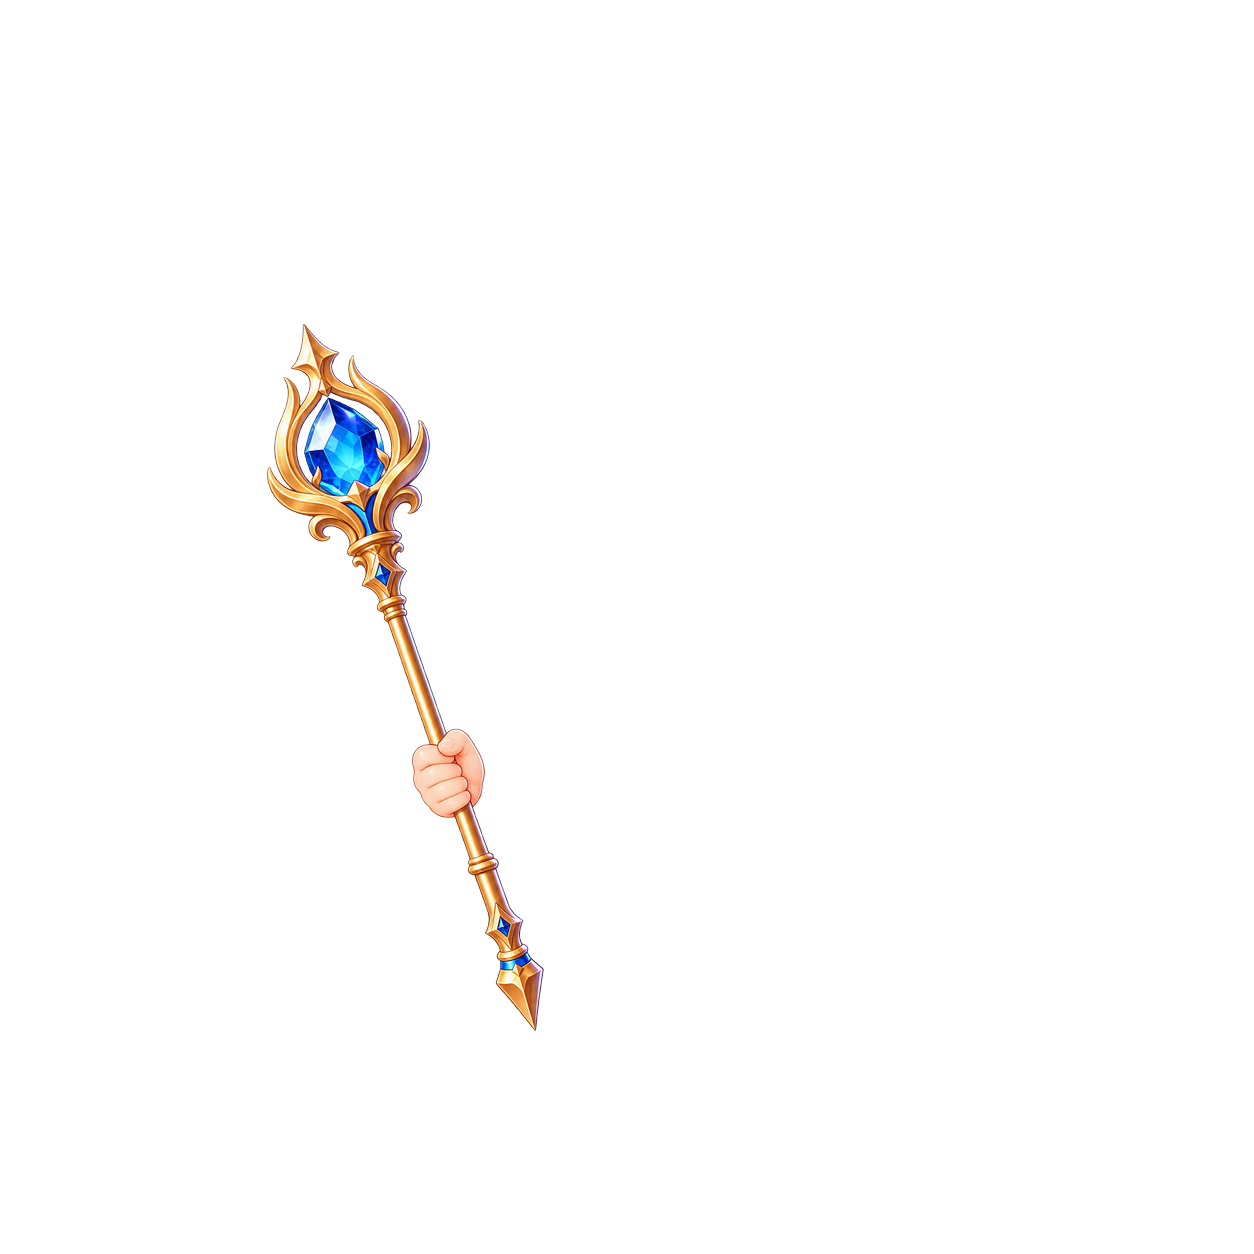
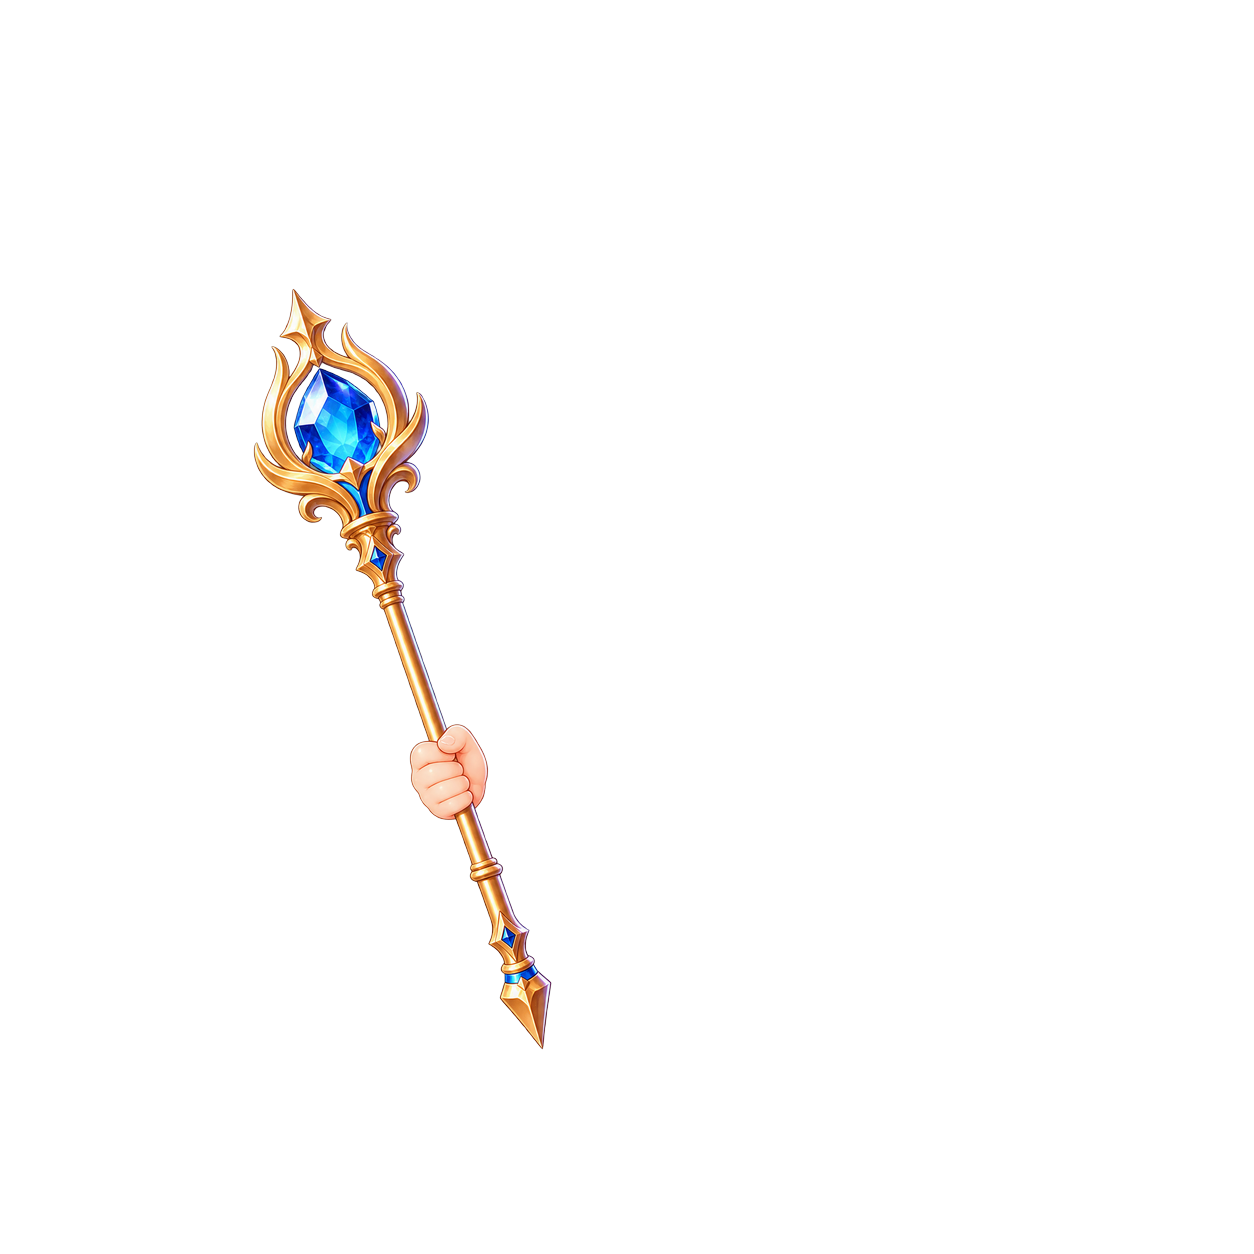
Cover the body's hand under the gold staff with blue gem
The round-2 gold staff (007) left a thin sliver of the body's own hand
showing beside its painted fist (104 px, 25 of them in the hand's core).
The owner approved the same fix as for the arcane staff. No placement at the
old scale covers it, so the same render is 7.5% larger (scale 0.43, offset
(58, 276)), which makes the staff 1.19x its old height. It is a separate
commit so it can be dropped on its own.

Claude-Session: https://claude.ai/code/session_01EdiQXRGokaCfhnNWsodC4R

Changed region(s): [[0.1866, 0.2177, 0.3421, 0.5598], [0.311, 0.5598, 0.4354, 0.8397]]

diff --git a/scripts/register_in_hand_objects.py b/scripts/register_in_hand_objects.py
@@ -36,9 +36,9 @@ its old size), so they are recorded directly rather than derived from a width.
 2026-09-27 (docs/qa/hand_objects_in_hand_2026-09-27.md): two of the owner's six
 candidates, the dark wand and the star spellbook, were registered from
 images/trait_candidates/hand_objects/in_hand_2026-09-27/. The round-1 arcane staff and
-violet orb were fitted again from the same renders, because their painted hands left an
-edge of the body's own hand showing. Their offsets were found with the fit tool's cover
-command rather than by centring the painted hand.
+violet orb, and the round-2 gold staff with blue gem, were fitted again from the same
+renders, because their painted hands left an edge of the body's own hand showing. Their
+offsets were found with the fit tool's cover command rather than by centring the painted hand.
 
 To register a new batch, add an entry to BATCHES (its source folder, decision date, QA
 note and item table) and run the script again. Batches are applied in order, so a later
@@ -103,6 +103,10 @@ ROUND1_REFIT_0927 = {
     "hand_object_001": ("001_arcane_staff_source.webp", 2, (491.4, 634.9), 88, 0.93, (-11, 184)),
     "hand_object_002": ("002_violet_crystal_orb_source.webp", 4, (407.0, 715.8), 363, 0.49, (217, 384)),
 }
+# 2026-09-27: the round-2 gold staff fitted again, 7.5% larger, so its painted fist covers the body's.
+ROUND2_REFIT_0927 = {
+    "hand_object_007": ("007_gold_staff_with_blue_gem.png", 2, (906, 1140), 177, 0.43, (58, 276)),
+}
 QA_0927 = {"decided_on": "2026-09-27", "qa_report": "docs/qa/hand_objects_in_hand_2026-09-27.md",
            "qa_composite": "docs/qa/hand_objects_in_hand_2026-09-27.png"}
 
@@ -114,6 +118,7 @@ BATCHES = [
      "items": ROUND2_ITEMS},
     {"folder": CANDIDATES_0927, **QA_0927, "items": ITEMS_0927},
     {"folder": SOURCES, **QA_0927, "items": ROUND1_REFIT_0927},
+    {"folder": ROUND2, **QA_0927, "items": ROUND2_REFIT_0927},
 ]
 
 

diff --git a/prompts/hand_objects_handover_2026-09-27.md b/prompts/hand_objects_handover_2026-09-27.md
@@ -22,7 +22,7 @@ Your job: generate or collect renders for the items still on their old art (004,
 
 ## Where things stand (2026-09-27)
 
-The candidates README in `incoming/hand_objects/with_hand_candidates_2026-09-26/` asks for wrist stubs to be trimmed. That step was dropped at the owner's request on 2026-09-27: a render with a painted wrist is generated again. Of the six candidates, only the lantern (006) has one. All six were fitted on 2026-09-27 (`docs/qa/hand_objects_in_hand_2026-09-27.md`): the dark wand and star spellbook were registered, and the registered arcane staff and violet orb were fitted again so their painted hands cover the body's.
+The candidates README in `incoming/hand_objects/with_hand_candidates_2026-09-26/` asks for wrist stubs to be trimmed. That step was dropped at the owner's request on 2026-09-27: a render with a painted wrist is generated again. Of the six candidates, only the lantern (006) has one. All six were fitted on 2026-09-27 (`docs/qa/hand_objects_in_hand_2026-09-27.md`): the dark wand and star spellbook were registered, and the registered arcane staff, violet orb and gold staff with blue gem were fitted again so their painted hands cover the body's.
 
 | Item | Pose | Now on main | Next step |
 |---|---|---|---|
@@ -32,7 +32,7 @@ The candidates README in `incoming/hand_objects/with_hand_candidates_2026-09-26/
 | 004 silver sword | 002 fist | old art | New render. The 2026-09-26 candidate drew the sword about a quarter longer than the old art, with the hand low on the grip, so the blade tip leaves the canvas once the fist covers the body's. Before that, round 3 had the right size but a sideways wrist. |
 | 005 star spellbook | 004 palm | painted-in-hand render, registered 2026-09-27 (an open book) | Done unless the owner asks again |
 | 006 gold lantern | 002 fist | painted-in-hand render, registered (round 2) | Its flat, outlined wrist cut is the kind of join the owner dislikes. The 2026-09-26 candidate still has a wrist stub, so regenerate it without a wrist rather than trimming it. |
-| 007 gold staff with blue gem | 002 fist | registered (round 2) | Done unless the owner asks again |
+| 007 gold staff with blue gem | 002 fist | round-2 render, fitted again on 2026-09-27 (7.5% larger) so the painted fist covers the body's | Done unless the owner asks again |
 | 008 blue crescent staff | 002 fist | registered (round 2) | Done unless the owner asks again |
 | 009 violet blade | 002 fist | old art | New render. Round 2 was marginal (chunky fist, blade a quarter short), and the owner chose to wait for a rerender. |
 | 010 horned skull scepter | 002 fist | old art | New render. Round 3 was the right size, but a corner of the body's own fist showed above the painted hand. The fist should be taller than it is wide, with the wrist running up toward the forearm. |
@@ -75,7 +75,7 @@ Keep every raw render unedited. Commit the sources you register under `images/tr
 
 ## Fitting
 
-`scripts/fit_in_hand_render.py` is the tool every registered in-hand item was fitted with, and it reproduces them pixel for pixel: the round-2 items (006, 007, 008 and 012) from their centre and scale, and the 2026-09-27 fits (001, 002, 003 and 005) with `--offset` (commands in `docs/qa/hand_objects_in_hand_2026-09-27.md`). The round-1 items (001, 002) first came from an older width-matching fit inside `scripts/register_in_hand_objects.py`. The tool never writes into the repository: `fit` writes to `/tmp/in_hand_fits/ITEM`, and `overview` and `zoom` to `/tmp/in_hand_fits/<source name>`, unless `--out` is given.
+`scripts/fit_in_hand_render.py` is the tool every registered in-hand item was fitted with, and it reproduces them pixel for pixel: the round-2 items (006, 008 and 012) from their centre and scale, and the 2026-09-27 fits (001, 002, 003, 005 and 007) with `--offset` (commands in `docs/qa/hand_objects_in_hand_2026-09-27.md`). The round-1 items (001, 002) first came from an older width-matching fit inside `scripts/register_in_hand_objects.py`. The tool never writes into the repository: `fit` writes to `/tmp/in_hand_fits/ITEM`, and `overview` and `zoom` to `/tmp/in_hand_fits/<source name>`, unless `--out` is given.
 
 1. Find the painted hand. Run `python scripts/fit_in_hand_render.py overview SOURCE`, then `zoom SOURCE x0 y0 x1 y1` on the hand.
 2. Measure it with `python scripts/fit_in_hand_render.py measure SOURCE POSE x0 y0 x1 y1` on a box round the painted hand. Keep the box tight: cream pages and parchment count as skin. The painted hand's skin centre and width are CX, CY and WIDTH, in source px. The same command prints the body hand's numbers: for pose 002, centre (447.2, 768.1) and width 69; for pose 004, centre (446.2, 738.5) and width 90.
@@ -133,5 +133,5 @@ python scripts/report_production_status.py --manifest assets/asset_manifest.json
 - Painted wrists: they pointed sideways, stuck out as stumps, or drew an outline across the forearm. Trimming them off afterwards was tried and dropped at the owner's request.
 - A closed fist for palm-up items (011): the body's pose is an open palm.
 - Rim light on the hand: it shows as a glowing outline against the body.
-- Centring the painted hand and stopping there. Round 1 left the body's knuckles showing beside the arcane staff, and the body's fingertips under the orb, until both were fitted again on 2026-09-27. Check `body_hand_core_pixels_showing` and use `cover`.
+- Centring the painted hand and stopping there. Round 1 left the body's knuckles showing beside the arcane staff, and the body's fingertips under the orb; round 2 left a thinner sliver beside the gold staff. All three were fitted again on 2026-09-27. Check `body_hand_core_pixels_showing` and use `cover`.
 - A sword drawn longer than its old art, with the hand low on the grip (004, 2026-09-26 candidate): once the fist covers the body's, the blade runs off the top of the canvas.

diff --git a/docs/qa/hand_objects_in_hand_2026-09-27.md b/docs/qa/hand_objects_in_hand_2026-09-27.md
@@ -1,6 +1,6 @@
 # Hand objects painted in hand - 2026-09-27
 
-Follows `docs/qa/hand_objects_in_hand_2026-09-26.md`. The six candidates in `incoming/hand_objects/with_hand_candidates_2026-09-26/` were fitted with `scripts/fit_in_hand_render.py` and checked against the acceptance list in `prompts/hand_objects_handover_2026-09-27.md`. The owner saw a before-and-after sheet of all six and approved the two recommended fits. They also asked for the registered arcane staff and violet orb to be fixed, because an edge of the body's own hand showed beside their painted hands.
+Follows `docs/qa/hand_objects_in_hand_2026-09-26.md`. The six candidates in `incoming/hand_objects/with_hand_candidates_2026-09-26/` were fitted with `scripts/fit_in_hand_render.py` and checked against the acceptance list in `prompts/hand_objects_handover_2026-09-27.md`. The owner saw a before-and-after sheet of all six and approved the two recommended fits. They also asked for the registered arcane staff and violet orb to be fixed, because an edge of the body's own hand showed beside their painted hands. In the same review they approved fixing the gold staff with blue gem (007), which showed a thinner sliver.
 
 Composite: `docs/qa/hand_objects_in_hand_2026-09-27.png`. Each row shows main before this change, the new layer on the bare body and on two dressed bodies, and the grip close up. Red marks body-hand pixels left showing.
 
@@ -17,14 +17,15 @@ Composite: `docs/qa/hand_objects_in_hand_2026-09-27.png`. Each row shows main be
 
 ## Re-fits of registered renders
 
-Both use the same round-1 render as before, now placed by `scripts/register_in_hand_objects.py` batch `ROUND1_REFIT_0927`. Round 1 centred each painted hand on a body-hand centre 8 to 10 px higher than the measured one (see `BASE_HANDS`), so the bottom of the body's own hand showed.
+Each keeps its registered render, now placed by `scripts/register_in_hand_objects.py`: batch `ROUND1_REFIT_0927` for the staff and orb, and `ROUND2_REFIT_0927` for the gold staff. Round 1 centred each painted hand on a body-hand centre 8 to 10 px higher than the measured one (see `BASE_HANDS`), so the bottom of the body's own hand showed.
 
 | Asset | Before | After | Body hand showing |
 |---|---|---|---|
 | 001 arcane staff | scale 0.8471, offset (30, 218) | scale 0.93, offset (-11, 184) | 346 px (255 core) -> 2 px (0 core) |
 | 002 violet orb | scale 0.49, offset (207, 378) | scale 0.49, offset (217, 384) | 396 px (266 core) -> 0 px |
+| 007 gold staff with blue gem | scale 0.4, offset (85, 312) | scale 0.43, offset (58, 276) | 104 px (25 core) -> 10 px (0 core) |
 
-The orb only moves (10 px right, 6 px down). At its old size the staff's painted fist cannot cover the body's fist wherever it is placed: the best position still showed 22 core px. So it is 9% larger, 1.06x its old height, and its foot now reaches the ankle rather than the shin.
+The orb only moves (10 px right, 6 px down). At its old size the staff's painted fist cannot cover the body's fist wherever it is placed: the best position still showed 22 core px. So it is 9% larger, 1.06x its old height, and its foot now reaches the ankle rather than the shin. The gold staff has the same problem (21 core px at best at its old scale). It is 7.5% larger, which makes it 1.19x its old height, a little over the 1.15 guide. Its painted hand is 1.10x the body's.
 
 The offsets were found with the new `cover` command of `scripts/fit_in_hand_render.py`. It tries every placement near a starting offset and lists those that leave the fewest body-hand pixels showing.
 
@@ -37,6 +38,7 @@ python scripts/fit_in_hand_render.py fit images/trait_candidates/hand_objects/in
 python scripts/fit_in_hand_render.py fit images/trait_candidates/hand_objects/in_hand_2026-09-27/005_star_spellbook.png 005 437.0 895.7 186 --scale 0.6 --offset 178 219
 python scripts/fit_in_hand_render.py fit images/trait_candidates/hand_objects/in_hand_2026-09-26/001_arcane_staff_source.webp 001 491.4 634.9 88 --scale 0.93 --offset -11 184
 python scripts/fit_in_hand_render.py fit images/trait_candidates/hand_objects/in_hand_2026-09-26/002_violet_crystal_orb_source.webp 002 407.0 715.8 363 --scale 0.49 --offset 217 384
+python scripts/fit_in_hand_render.py fit images/trait_candidates/hand_objects/in_hand_2026-09-26/round2/007_gold_staff_with_blue_gem.png 007 906 1140 177 --scale 0.43 --offset 58 276
 ```
 
 The two new sources are byte-identical copies of the candidates, renamed: `003_dark_wand.png` (SHA-256 `e7cf2041…`) and `005_star_spellbook.png` (`8d46b2eb…`), as listed in the candidates' `manifest.json`.

diff --git a/docs/qa/hand_objects_in_hand_2026-09-26.md b/docs/qa/hand_objects_in_hand_2026-09-26.md
@@ -52,4 +52,4 @@ Rerenders of the silver sword, horned skull scepter and round talisman were fitt
 
 The owner then found painted wrists anatomically wrong in general and asked for renders without them. The prompt pack now stops the hand at the base of the palm. Trimming wrists off existing renders was tried and dropped at the owner's request. Six more candidates the owner generated are in `incoming/hand_objects/with_hand_candidates_2026-09-26/`. The next steps are in `prompts/hand_objects_handover_2026-09-27.md`.
 
-Those candidates were fitted on 2026-09-27: the dark wand and star spellbook were registered, and the arcane staff and violet orb were fitted again so their painted hands cover the body's. See `docs/qa/hand_objects_in_hand_2026-09-27.md`.
+Those candidates were fitted on 2026-09-27: the dark wand and star spellbook were registered, and the arcane staff, violet orb and gold staff with blue gem were fitted again so their painted hands cover the body's. See `docs/qa/hand_objects_in_hand_2026-09-27.md`.
